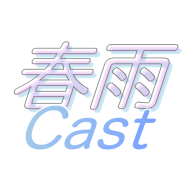
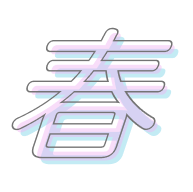
Updates 2022-06-16

diff --git a/_includes/head.html b/_includes/head.html
@@ -12,6 +12,9 @@
   <meta property="og:site_name" content="{{ site.title }}" />
   <meta property="og:type" content="blog" />
   <meta property="og:url" content="{{ site.github.url }}{{ page.url }}" />
+  <link rel="preconnect" href="https://fonts.googleapis.com">
+  <link rel="preconnect" href="https://fonts.gstatic.com" crossorigin>
+  <link href="https://fonts.googleapis.com/css2?family=Noto+Sans+JP:wght@100;300;400&display=swap" rel="stylesheet">
   <link rel="alternate" type="application/rss+xml" href="{{ site.github.url }}/feed.xml" />
   <link rel="apple-touch-icon" type="image/png" href="/images/apple-touch-icon-180x180.png">
   <link rel="icon" type="image/png" href="/images/icon-192x192.png">

diff --git a/css/blocks/_reset.scss b/css/blocks/_reset.scss
@@ -4,6 +4,7 @@ html, body, div, span, applet, object, iframe, h1, h2, h3, h4, h5, h6, p, blockq
   border: 0;
   font-size: 100%;
   font: inherit;
+  font-family: 'Noto Sans JP', sans-serif;
   vertical-align: baseline; }
 
 /* HTML5 display-role reset for older browsers */

diff --git a/css/blocks/_header.scss b/css/blocks/_header.scss
@@ -1,5 +1,5 @@
 .header {
-  background-image: url(../images/artwork.jpg);
+  background-image: url(../images/harusame-logo-1400.png);
   background-size: cover;
   background-position: center;
 

diff --git a/_posts/2022-06-09-1.md b/_posts/2022-06-09-1.md
@@ -8,7 +8,7 @@ date: 2022-06-09 00:00:00 +0900
 description: yamagataとtachibanaの2人で、コロナ禍での生活、引っ越し、車などについて話しました。
 duration: '51:10'
 layout: article
-title: 1. First cast
+title: 1. Hello World
 ---
 
 ## 関連リンク
